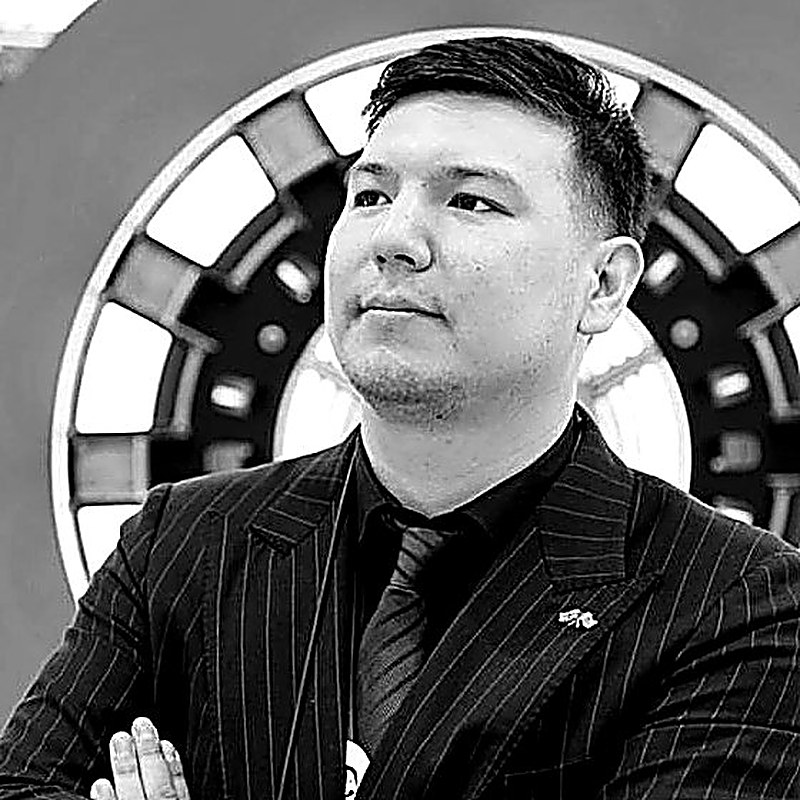
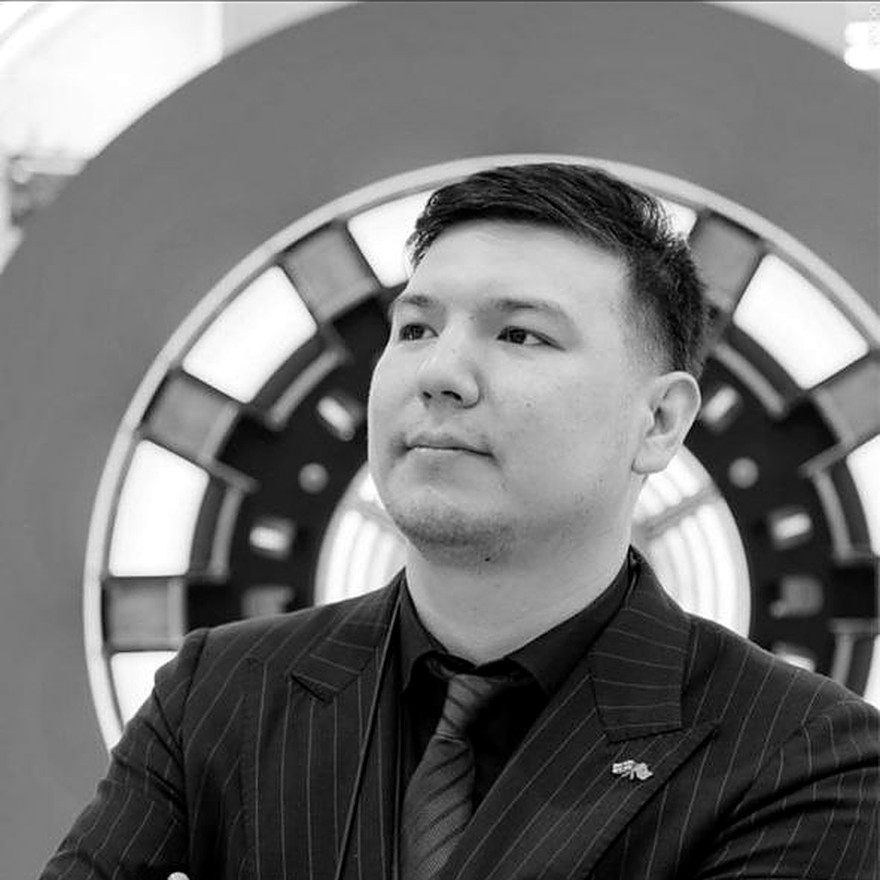
v17: new hi-res photos (Azamat, Kuanysh, Andrei), light event highlight
- Three photos rebuilt from newly provided originals, B&W with autocontrast:
  Kuanysh 880px (letterbox-trimmed, head-anchored), Azamat 960px (KAIST,
  cap preserved), Andrei 880px (blur-fill from larger circle source)
- Past-event cards: heavy animation removed — subtle brightness highlight
  on press/hover only; team-card tap pulse unchanged

diff --git a/site-updates.css b/site-updates.css
@@ -1231,51 +1231,26 @@ body.m-menu-lock { overflow: hidden; }
 
 
 /* ══════════════════════════════════════
-   v16 — анимация карточек мероприятий
+   v17 — мероприятия: лёгкая подсветка при нажатии
    ══════════════════════════════════════ */
 .past-card {
-  transition: transform 0.28s cubic-bezier(0.22, 1, 0.36, 1),
-              box-shadow 0.28s ease,
-              outline-color 0.28s ease !important;
-  outline: 2px solid transparent;
-  outline-offset: 2px;
+  transition: filter 0.18s ease, transform 0.18s ease !important;
   -webkit-tap-highlight-color: transparent;
-  cursor: pointer;
   border-radius: 14px;
   overflow: hidden;
 }
 
-.past-card .past-img {
-  transition: transform 0.35s cubic-bezier(0.22, 1, 0.36, 1);
-  display: block;
+.past-card:active {
+  filter: brightness(1.18);
+  transform: scale(0.985) !important;
 }
 
 @media (hover: hover) {
   .past-card:hover {
-    transform: translateY(-6px) scale(1.015) !important;
-    box-shadow: 0 18px 48px #6c5ce03d !important;
-    outline-color: #6c5ce066;
+    filter: brightness(1.12);
   }
-
-  .past-card:hover .past-img {
-    transform: scale(1.05);
-  }
-}
-
-.past-card:active {
-  transform: scale(0.97) !important;
-}
-
-.past-card.tapped {
-  transform: translateY(-4px) scale(1.02) !important;
-  box-shadow: 0 16px 44px #6c5ce052 !important;
-  outline-color: #8f7bf0;
-}
-
-.past-card.tapped .past-img {
-  transform: scale(1.06);
 }
 
 @media (prefers-reduced-motion: reduce) {
-  .past-card, .past-card .past-img { transition: none !important; }
+  .past-card { transition: none !important; }
 }

diff --git a/index.html b/index.html
@@ -10,15 +10,15 @@
     <link href="https://fonts.googleapis.com/css2?family=Inter+Tight:wght@400;500;600;700&family=Victor+Mono:ital,wght@0,400;0,500;0,600;1,400&display=swap" rel="stylesheet" />
     <script type="module" crossorigin src="/assets/index-C9VrdjED.js"></script>
     <link rel="stylesheet" crossorigin href="/assets/index-CPPYpqm_.css">
-    <link rel="stylesheet" href="/mobile.css?v=16">
-    <link rel="stylesheet" href="/site-updates.css?v=16">
+    <link rel="stylesheet" href="/mobile.css?v=17">
+    <link rel="stylesheet" href="/site-updates.css?v=17">
   </head>
   <body>
     <div id="app"></div>
-    <script src="/site-updates.js?v=16"></script>
+    <script src="/site-updates.js?v=17"></script>
   
-        <script src="/firebase-bridge.js?v=16"></script>
-    <script src="/internal-tasks.js?v=16" defer></script>
-    <script src="/request-modal.js?v=16" defer></script>
+        <script src="/firebase-bridge.js?v=17"></script>
+    <script src="/internal-tasks.js?v=17" defer></script>
+    <script src="/request-modal.js?v=17" defer></script>
   </body>
 </html>

diff --git a/ai-for-leaders/index.html b/ai-for-leaders/index.html
@@ -8,7 +8,7 @@
     <link rel="preconnect" href="https://fonts.googleapis.com" />
     <link rel="preconnect" href="https://fonts.gstatic.com" crossorigin />
     <link href="https://fonts.googleapis.com/css2?family=Inter+Tight:wght@400;500;600;700&family=Victor+Mono:ital,wght@0,400;0,500;0,600;1,400&display=swap" rel="stylesheet" />
-    <link rel="stylesheet" href="/landing.css?v=16" />
+    <link rel="stylesheet" href="/landing.css?v=17" />
   </head>
   <body>
     <div class="lp-bg"><canvas id="lp-mesh"></canvas></div>
@@ -97,11 +97,11 @@
         <span>© 2026 AI Research Lab</span>
       </footer>
     </div>
-    <script src="/landing.js?v=16"></script>
+    <script src="/landing.js?v=17"></script>
   
-        <script src="/firebase-bridge.js?v=16"></script>
-    <script src="/internal-tasks.js?v=16" defer></script>
-    <script src="/request-modal.js?v=16" defer></script>
+        <script src="/firebase-bridge.js?v=17"></script>
+    <script src="/internal-tasks.js?v=17" defer></script>
+    <script src="/request-modal.js?v=17" defer></script>
   
     <script>
       (function () {

diff --git a/ai-for-work/index.html b/ai-for-work/index.html
@@ -8,7 +8,7 @@
     <link rel="preconnect" href="https://fonts.googleapis.com" />
     <link rel="preconnect" href="https://fonts.gstatic.com" crossorigin />
     <link href="https://fonts.googleapis.com/css2?family=Inter+Tight:wght@400;500;600;700&family=Victor+Mono:ital,wght@0,400;0,500;0,600;1,400&display=swap" rel="stylesheet" />
-    <link rel="stylesheet" href="/landing.css?v=16" />
+    <link rel="stylesheet" href="/landing.css?v=17" />
   </head>
   <body>
     <div class="lp-bg"><canvas id="lp-mesh"></canvas></div>
@@ -104,11 +104,11 @@
         <span>© 2026 AI Research Lab</span>
       </footer>
     </div>
-    <script src="/landing.js?v=16"></script>
+    <script src="/landing.js?v=17"></script>
   
-        <script src="/firebase-bridge.js?v=16"></script>
-    <script src="/internal-tasks.js?v=16" defer></script>
-    <script src="/request-modal.js?v=16" defer></script>
+        <script src="/firebase-bridge.js?v=17"></script>
+    <script src="/internal-tasks.js?v=17" defer></script>
+    <script src="/request-modal.js?v=17" defer></script>
   
     <script>
       (function () {

diff --git a/blog/ai-90-days.html b/blog/ai-90-days.html
@@ -9,7 +9,7 @@
     <link rel="preconnect" href="https://fonts.googleapis.com" />
     <link rel="preconnect" href="https://fonts.gstatic.com" crossorigin />
     <link href="https://fonts.googleapis.com/css2?family=Inter+Tight:wght@400;500;600;700&family=Victor+Mono:ital,wght@0,400;0,500;0,600;1,400&display=swap" rel="stylesheet" />
-    <link rel="stylesheet" href="/blog/blog.css?v=16" />
+    <link rel="stylesheet" href="/blog/blog.css?v=17" />
   </head>
   <body>
     <div class="blog-shell">
@@ -150,8 +150,8 @@
       })();
     </script>
   
-        <script src="/firebase-bridge.js?v=16"></script>
-    <script src="/internal-tasks.js?v=16" defer></script>
-    <script src="/request-modal.js?v=16" defer></script>
+        <script src="/firebase-bridge.js?v=17"></script>
+    <script src="/internal-tasks.js?v=17" defer></script>
+    <script src="/request-modal.js?v=17" defer></script>
   </body>
 </html>

diff --git a/blog/ai-food-service.html b/blog/ai-food-service.html
@@ -8,7 +8,7 @@
     <link rel="preconnect" href="https://fonts.googleapis.com" />
     <link rel="preconnect" href="https://fonts.gstatic.com" crossorigin />
     <link href="https://fonts.googleapis.com/css2?family=Inter+Tight:wght@400;500;600;700&family=Victor+Mono:ital,wght@0,400;0,500;0,600;1,400&display=swap" rel="stylesheet" />
-    <link rel="stylesheet" href="/blog/blog.css?v=16" />
+    <link rel="stylesheet" href="/blog/blog.css?v=17" />
   </head>
   <body>
     <div class="blog-shell">
@@ -149,8 +149,8 @@
       })();
     </script>
   
-        <script src="/firebase-bridge.js?v=16"></script>
-    <script src="/internal-tasks.js?v=16" defer></script>
-    <script src="/request-modal.js?v=16" defer></script>
+        <script src="/firebase-bridge.js?v=17"></script>
+    <script src="/internal-tasks.js?v=17" defer></script>
+    <script src="/request-modal.js?v=17" defer></script>
   </body>
 </html>

diff --git a/blog/ai-university-labs.html b/blog/ai-university-labs.html
@@ -9,7 +9,7 @@
     <link rel="preconnect" href="https://fonts.googleapis.com" />
     <link rel="preconnect" href="https://fonts.gstatic.com" crossorigin />
     <link href="https://fonts.googleapis.com/css2?family=Inter+Tight:wght@400;500;600;700&family=Victor+Mono:ital,wght@0,400;0,500;0,600;1,400&display=swap" rel="stylesheet" />
-    <link rel="stylesheet" href="/blog/blog.css?v=16" />
+    <link rel="stylesheet" href="/blog/blog.css?v=17" />
   </head>
   <body>
     <div class="blog-shell">
@@ -152,8 +152,8 @@
       })();
     </script>
   
-        <script src="/firebase-bridge.js?v=16"></script>
-    <script src="/internal-tasks.js?v=16" defer></script>
-    <script src="/request-modal.js?v=16" defer></script>
+        <script src="/firebase-bridge.js?v=17"></script>
+    <script src="/internal-tasks.js?v=17" defer></script>
+    <script src="/request-modal.js?v=17" defer></script>
   </body>
 </html>

diff --git a/blog/index.html b/blog/index.html
@@ -8,7 +8,7 @@
     <link rel="preconnect" href="https://fonts.googleapis.com" />
     <link rel="preconnect" href="https://fonts.gstatic.com" crossorigin />
     <link href="https://fonts.googleapis.com/css2?family=Inter+Tight:wght@400;500;600;700&family=Victor+Mono:ital,wght@0,400;0,500;0,600;1,400&display=swap" rel="stylesheet" />
-    <link rel="stylesheet" href="/blog/blog.css?v=16" />
+    <link rel="stylesheet" href="/blog/blog.css?v=17" />
   </head>
   <body>
     <div class="blog-shell">
@@ -137,8 +137,8 @@
       })();
     </script>
   
-        <script src="/firebase-bridge.js?v=16"></script>
-    <script src="/internal-tasks.js?v=16" defer></script>
-    <script src="/request-modal.js?v=16" defer></script>
+        <script src="/firebase-bridge.js?v=17"></script>
+    <script src="/internal-tasks.js?v=17" defer></script>
+    <script src="/request-modal.js?v=17" defer></script>
   </body>
 </html>

diff --git a/site-updates.js b/site-updates.js
@@ -268,7 +268,7 @@
   }
 
   function bindTeamCardTaps() {
-    document.querySelectorAll('.team-card, .past-card').forEach((card) => {
+    document.querySelectorAll('.team-card').forEach((card) => {
       if (card.dataset.tapBound) return;
       card.dataset.tapBound = '1';
       card.addEventListener('click', () => {